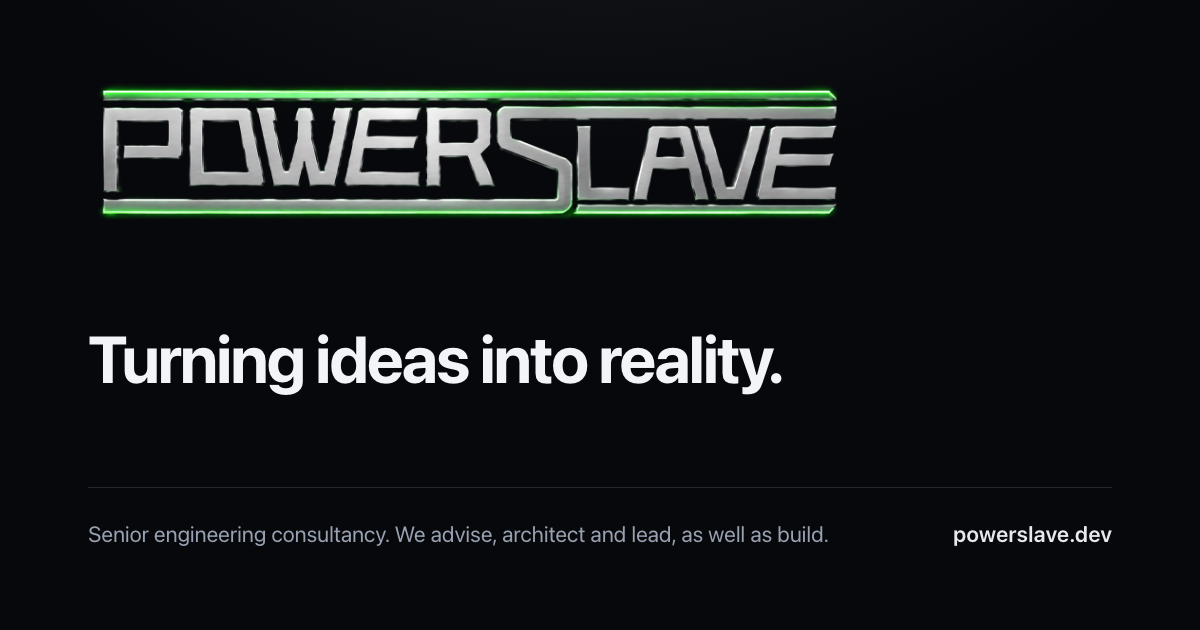
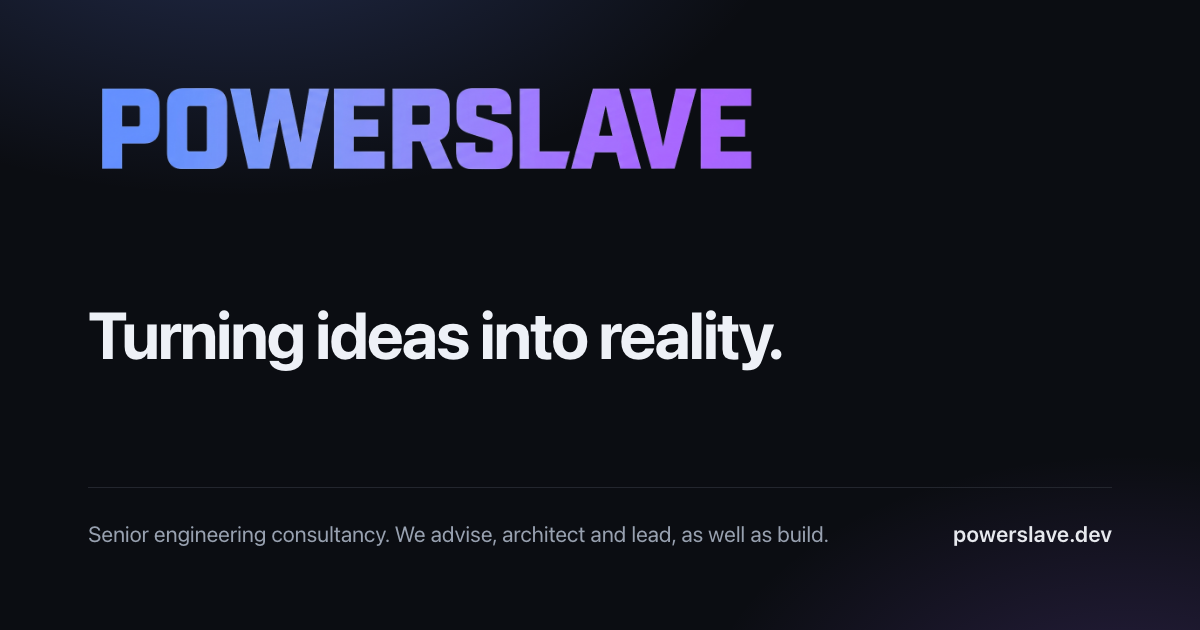
[powerslave.dev] FEAT: replace the wordmark with a transparent, on-palette version
The supplied replacement is a blue-to-purple gradient wordmark, which is the
site's own accent gradient rather than the previous chrome-and-green — so the
palette clash is gone and the card no longer has to sit on a neutral ground to
avoid it. The accent glow is back.

Two problems in the source file, both fixed before it shipped:

The generator that made it left a watermark — a ~47x48px sparkle at x 1648-1694,
y 448-495, below and right of the artwork. The wordmark occupies rows 203-388, so
cropping to the wordmark plus a margin removes the watermark outright rather than
painting over it.

The background was opaque dark navy, not transparent, which would have shown as a
visible box on our near-black and been unusable on the light theme. The letters
are far brighter than the ground, so alpha is keyed from luminance with a ramp
that keeps the edges antialiased and leaves the letter colour untouched. Checked
composited on both #0b0d12 and #fbfbfd, at full size, at 26px and at 15px.

Because it is genuinely transparent it needs no mix-blend-mode trick, and it
works on white — which was the only reason logo-512.png existed, so that goes in
the next commit. The -400 variant exists because the topbar loads on every page
and 404 KB for a 162px-wide render is not a reasonable trade.

An SVG is expected. When it arrives, keep a PNG for the structured-data logo:
Google does not accept SVG for Organization.logo.

Changed region(s): [[0.0, 0.0, 0.7092, 0.3619], [0.0617, 0.4825, 0.6475, 0.6333], [0.74, 0.8746, 1.0, 1.0]]

diff --git a/tools/og-image.html b/tools/og-image.html
@@ -5,15 +5,9 @@
   Not served to anyone; it exists so the card can be regenerated instead of
   re-drawn.
 
-  Two things to know before editing:
-
-  1. images/logo-powerslave.png has no alpha channel — its black background is
-     baked in. `mix-blend-mode: screen` drops that black out against a dark
-     ground while preserving the chrome and the green glow, which keying the
-     black would have punched holes in. It only works over a DARK background.
-  2. The ground is deliberately near-neutral rather than carrying the site's
-     blue/purple accent glow. The logo's neon is green; the two fight each other
-     if both are on the card. The logo supplies the colour here.
+  images/logo-powerslave.png is a real transparent PNG, so it needs no blend
+  tricks and sits on the site's own accent glow without fighting it — its gradient
+  is the brand gradient. Keep the palette here in step with :root in style.css.
 
   Render from the repo root:
     "/Applications/Google Chrome.app/Contents/MacOS/Google Chrome" \
@@ -35,8 +29,9 @@
 
   body {
     background:
-      radial-gradient(1000px 560px at 50% -30%, rgba(255, 255, 255, 0.07), transparent 64%),
-      #07080b;
+      radial-gradient(900px 520px at 20% -20%, rgba(108, 140, 255, 0.26), transparent 62%),
+      radial-gradient(720px 460px at 94% 116%, rgba(160, 108, 255, 0.20), transparent 60%),
+      #0b0d12;
     color: #e7e9ee;
     font: 16px/1.65 -apple-system, BlinkMacSystemFont, "Segoe UI", Roboto,
           Helvetica, Arial, sans-serif;
@@ -48,10 +43,9 @@
   }
 
   .logo {
-    width: 760px;
+    width: 680px;
     height: auto;
     display: block;
-    mix-blend-mode: screen;
   }
 
   h1 {
@@ -60,7 +54,7 @@
     line-height: 1.06;
     letter-spacing: -0.03em;
     font-weight: 700;
-    color: #f2f4f8;
+    color: #eef1f7;
   }
 
   .foot {
@@ -89,7 +83,7 @@
 <body>
 
   <img class="logo" src="../images/logo-powerslave.png"
-       alt="PowerSlave" width="1600" height="329">
+       alt="PowerSlave" width="1560" height="250">
 
   <h1>Turning ideas into reality.</h1>
 
